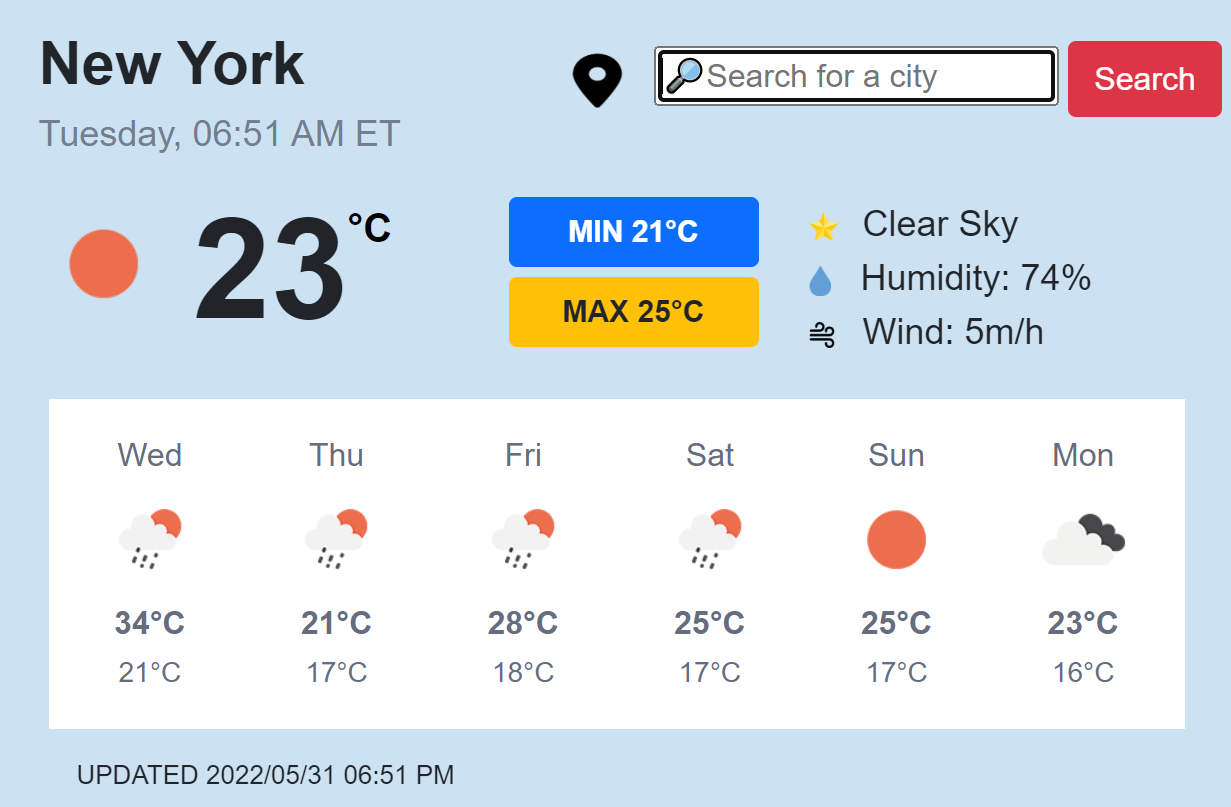
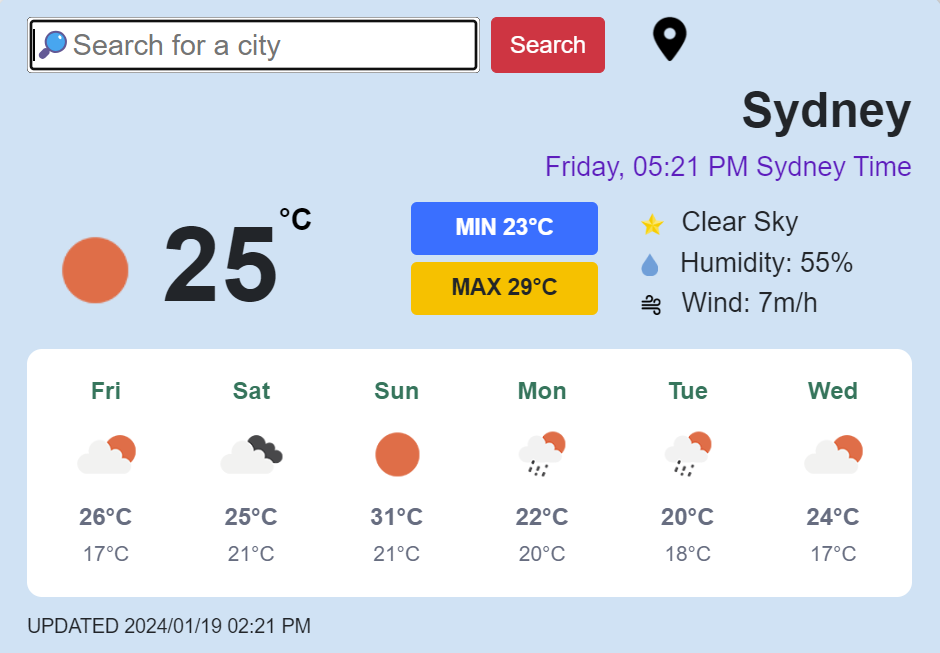
Added weather app, pig game and forkigy info.

diff --git a/src/pages/works-info/Weather.js b/src/pages/works-info/Weather.js
@@ -1,51 +1,45 @@
 import weather from '../../images/works/weather-app.png';
-import nodesjs from '../../images/skills/Node.js_logo.png';
-import expressjs from '../../images/skills/ExpressJS-logo.png';
-import mongoDB from '../../images/skills/MongoDB_Logo.svg.png';
+import javaScript from '../../images/skills/js.png';
+import css from '../../images/skills/css.png';
+import html from '../../images/skills/html.png';
 
 export default function Weather() {
   return (
     <div className='work fade-in-text'>
       <h1>Weather Project</h1>
 
-      <img className='work-image' src={weather} alt='Weather' title='Weather' />
+      <a
+        href='https://worldweather-search.netlify.app'
+        className='click-for-more'
+        target='_blank'
+        alt='More information'
+        rel='noreferrer'
+      >
+        <img
+          className='work-image weatherImage'
+          src={weather}
+          alt='Weather'
+          title='Weather App'
+        />
+      </a>
 
       <p>
-        Using Node.js and React skills to create this money tracker, storing
-        transactions and customer accounts in external server.
+        Using React skills to create this weather application, through
+        open-source API javaScript library to display real-time weather
+        information of the world.
       </p>
 
       <div className='work-skill'>
         <span>Tool used: </span>
         <img
           className='skill-image'
-          src={nodesjs}
-          alt='Node JS'
-          title='Node JS'
+          src={javaScript}
+          alt='JavaScript'
+          title='JavaScript'
         />
-        <img
-          className='skill-image'
-          src={expressjs}
-          alt='Express JS'
-          title='Express JS'
-        />
-        <img
-          className='skill-image'
-          src={mongoDB}
-          alt='MongoDB'
-          title='MongoDB'
-        />
+        <img className='skill-image' src={css} alt='CSS' title='CSS' />
+        <img className='skill-image' src={html} alt='HTML' title='HTML' />
       </div>
-
-      <a
-        href='https://money-tracker-vp3w.onrender.com'
-        className='click-for-more'
-        target='_blank'
-        alt='More information'
-        rel='noreferrer'
-      >
-        <h4>Click for more!</h4>
-      </a>
     </div>
   );
 }

diff --git a/src/pages/works-info/ForkifyRecipe.js b/src/pages/works-info/ForkifyRecipe.js
@@ -1,16 +1,15 @@
-import worldwise from '../../images/works/worldwise.png';
-import react from '../../images/skills/react.png';
+import forkify from '../../images/works/forkifyRecipe.png';
 import javaScript from '../../images/skills/js.png';
 import css from '../../images/skills/css.png';
 import html from '../../images/skills/html.png';
 
-export default function Worldwise() {
+export default function MoneyTracker() {
   return (
     <div className='work fade-in-text'>
-      <h1>Worldwise Project</h1>
+      <h1>Forkify Recipe Project</h1>
 
       <a
-        href='https://worldwise-practice-01.netlify.app'
+        href='https://forkify-janis.netlify.app/'
         className='click-for-more'
         target='_blank'
         alt='More information'
@@ -18,20 +17,19 @@ export default function Worldwise() {
       >
         <img
           className='work-image'
-          src={worldwise}
-          alt='Worldwise'
-          title='Worldwise'
+          src={forkify}
+          alt='Forkify Recipe'
+          title='Forkify Recipe'
         />
       </a>
       <p>
-        Using React skills to create this worldwise application, through
-        open-source API javaScript library to display map information of the
-        world.
+        Use model-view-controller (MVC) software design pattern to create this
+        Forkify Recipe App. Through API to get recipe information and use local
+        storage to store bookmarked recipe information.
       </p>
 
       <div className='work-skill'>
         <span>Tool used: </span>
-        <img className='skill-image' src={react} alt='React' title='React' />
         <img
           className='skill-image'
           src={javaScript}

diff --git a/src/pages/works-info/PigGame.js b/src/pages/works-info/PigGame.js
@@ -1,37 +1,35 @@
-import worldwise from '../../images/works/worldwise.png';
-import react from '../../images/skills/react.png';
+import pigGame from '../../images/works/pig-game.png';
 import javaScript from '../../images/skills/js.png';
 import css from '../../images/skills/css.png';
 import html from '../../images/skills/html.png';
 
-export default function Worldwise() {
+export default function PigGame() {
   return (
     <div className='work fade-in-text'>
-      <h1>Worldwise Project</h1>
+      <h1>Pig Game Project</h1>
 
       <a
-        href='https://worldwise-practice-01.netlify.app'
+        href='https://pig-dice-game01.netlify.app'
         className='click-for-more'
         target='_blank'
         alt='More information'
         rel='noreferrer'
       >
         <img
-          className='work-image'
-          src={worldwise}
-          alt='Worldwise'
-          title='Worldwise'
+          className='work-image pigGameImage'
+          src={pigGame}
+          alt='Pig Game'
+          title='Pig Game'
         />
       </a>
       <p>
-        Using React skills to create this worldwise application, through
-        open-source API javaScript library to display map information of the
-        world.
+        Use JavaScript, HTML and CSS to create this Pig Game. Each turn, a
+        player repeatedly rolls a die until either a 1 is rolled or the player
+        holds and scores the sum of the rolls.
       </p>
 
       <div className='work-skill'>
         <span>Tool used: </span>
-        <img className='skill-image' src={react} alt='React' title='React' />
         <img
           className='skill-image'
           src={javaScript}

diff --git a/src/pages/works-info/MoneyTracker.js b/src/pages/works-info/MoneyTracker.js
@@ -8,12 +8,20 @@ export default function MoneyTracker() {
     <div className='work fade-in-text'>
       <h1>Money Tracker Project</h1>
 
-      <img
-        className='work-image'
-        src={moneyTracker}
-        alt='Money Tracker'
-        title='Money Tracker'
-      />
+      <a
+        href='https://money-tracker-vp3w.onrender.com'
+        className='click-for-more'
+        target='_blank'
+        alt='More information'
+        rel='noreferrer'
+      >
+        <img
+          className='work-image'
+          src={moneyTracker}
+          alt='Money Tracker'
+          title='Money Tracker'
+        />
+      </a>
       <p>
         Using Node.js and React skills to create this money tracker, storing
         transactions and customer accounts in external server.
@@ -40,16 +48,6 @@ export default function MoneyTracker() {
           title='MongoDB'
         />
       </div>
-
-      <a
-        href='https://money-tracker-vp3w.onrender.com'
-        className='click-for-more'
-        target='_blank'
-        alt='More information'
-        rel='noreferrer'
-      >
-        <h4>Click for more!</h4>
-      </a>
     </div>
   );
 }

diff --git a/src/pages/MyWork.js b/src/pages/MyWork.js
@@ -4,14 +4,18 @@ import HeadingBar from './utilities/HeadingBar';
 import MoneyTracker from './works-info/MoneyTracker';
 import Worldwise from './works-info/Worldwise';
 import './MyWork.css';
+import Weather from './works-info/Weather';
+import ForkifyRecipe from './works-info/ForkifyRecipe';
+import PigGame from './works-info/PigGame';
 
 export default function MyWork() {
   const [clickedProjectId, setClickedProjectId] = useState('');
 
   function handleProjectClick(e) {
     e.preventDefault();
+    console.log(e.target);
     setClickedProjectId(e.target.dataset.id);
-    e.target.scrollTo({
+    e.target.parentElement.scrollTo({
       top: e.target.offsetTop,
       left: 0,
       behavior: 'smooth',
@@ -48,6 +52,9 @@ export default function MyWork() {
         </ul>
         {clickedProjectId === 'moneyTracker' ? <MoneyTracker /> : ''}
         {clickedProjectId === 'worldwise' ? <Worldwise /> : ''}
+        {clickedProjectId === 'weather' ? <Weather /> : ''}
+        {clickedProjectId === 'forkify' ? <ForkifyRecipe /> : ''}
+        {clickedProjectId === 'pigGame' ? <PigGame /> : ''}
       </div>
     </div>
   );

diff --git a/src/pages/MyWork.css b/src/pages/MyWork.css
@@ -46,6 +46,13 @@
   border-radius: 15px;
   box-shadow: 8px 8px 10px 1px rgba(108, 108, 109, 0.6);
 }
+.weatherImage {
+  width: 85%;
+}
+
+.pigGameImage {
+  width: 75%;
+}
 
 .content {
   display: flex;

diff --git a/src/App.css b/src/App.css
@@ -10,7 +10,7 @@ body {
 }
 
 .side-wrapper {
-  padding: 3vh 5vw;
+  padding: 1vh 5vw;
 }
 
 @media (prefers-reduced-motion: no-preference) {
